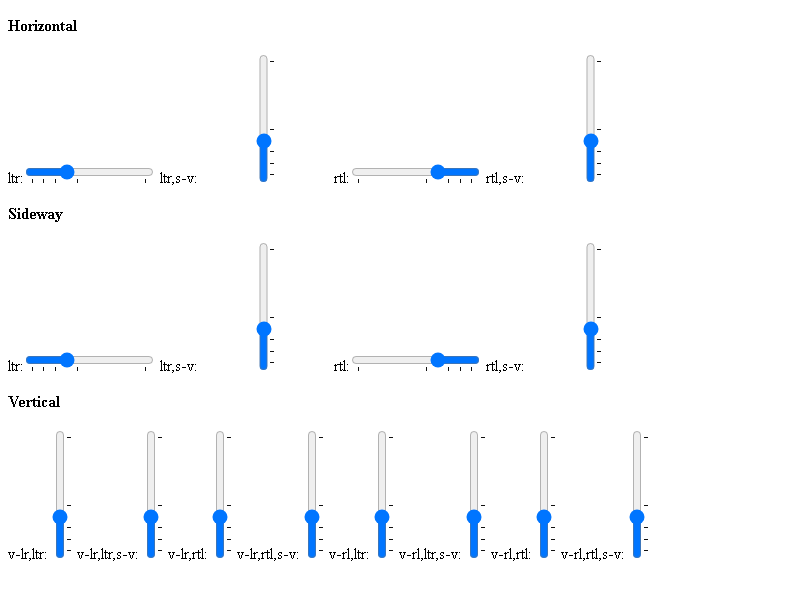
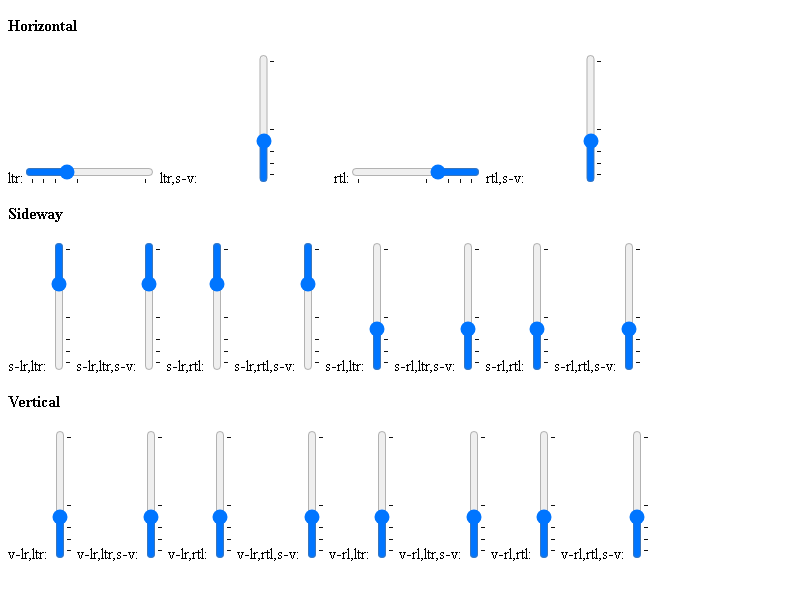
sideways: Fix slider rendering in sideways-lr
Bug: 40501131
Commit-Queue: Di Zhang <dizhangg@chromium.org>
Auto-Submit: Kent Tamura <tkent@chromium.org>
Cr-Commit-Position: refs/heads/main@{#1326520}
NOKEYCHECK=True
GitOrigin-RevId: 8a8dd1b964177259f3bd3c59bd76ad8271253e3e

diff --git a/blink/web_tests/css-parser/vertical-range-slider-appearance.html b/blink/web_tests/css-parser/vertical-range-slider-appearance.html
@@ -11,6 +11,7 @@ p {
 .s-v { appearance: slider-vertical }
 .htb { writing-mode: horizontal-tb }
 .side { writing-mode: sideways-lr }
+.srl { writing-mode: sideways-rl }
 .vlr { writing-mode: vertical-lr }
 .vrl { writing-mode: vertical-rl }
 
@@ -21,10 +22,14 @@ ltr,s-v:<input type="range" value="30" min="0" max="100" class="ltr s-v htb" lis
 rtl:<input type="range" value="30" min="0" max="100" class="rtl htb" list=foo>
 rtl,s-v:<input type="range" value="30" min="0" max="100" class="rtl s-v htb" list=foo>
 <p>Sideway</p>
-ltr:<input type="range" value="30" min="0" max="100" class="ltr side" list=foo>
-ltr,s-v:<input type="range" value="30" min="0" max="100" class="ltr s-v side" list=foo>
-rtl:<input type="range" value="30" min="0" max="100" class="rtl side" list=foo>
-rtl,s-v:<input type="range" value="30" min="0" max="100" class="rtl s-v side" list=foo>
+s-lr,ltr:<input type="range" value="30" min="0" max="100" class="ltr side" list=foo>
+s-lr,ltr,s-v:<input type="range" value="30" min="0" max="100" class="ltr s-v side" list=foo>
+s-lr,rtl:<input type="range" value="30" min="0" max="100" class="rtl side" list=foo>
+s-lr,rtl,s-v:<input type="range" value="30" min="0" max="100" class="rtl s-v side" list=foo>
+s-rl,ltr:<input type="range" value="30" min="0" max="100" class="ltr srl" list=foo>
+s-rl,ltr,s-v:<input type="range" value="30" min="0" max="100" class="ltr s-v srl" list=foo>
+s-rl,rtl:<input type="range" value="30" min="0" max="100" class="rtl srl" list=foo>
+s-rl,rtl,s-v:<input type="range" value="30" min="0" max="100" class="rtl s-v srl" list=foo>
 <p>Vertical</p>
 v-lr,ltr:<input type="range" value="30" min="0" max="100" class="ltr vlr" list=foo>
 v-lr,ltr,s-v:<input type="range" value="30" min="0" max="100" class="ltr s-v vlr" list=foo>

diff --git a/blink/renderer/core/paint/theme_painter_default.cc b/blink/renderer/core/paint/theme_painter_default.cc
@@ -559,8 +559,8 @@ bool ThemePainterDefault::PaintSliderTrack(const Element& element,
       RuntimeEnabledFeatures::
           NonStandardAppearanceValueSliderVerticalEnabled() &&
       style.EffectiveAppearance() == kSliderVerticalPart;
-  bool is_writing_mode_vertical =
-      !IsHorizontalWritingMode(style.GetWritingMode());
+  const WritingMode writing_mode = style.GetWritingMode();
+  bool is_writing_mode_vertical = !IsHorizontalWritingMode(writing_mode);
   slider.vertical = is_writing_mode_vertical || is_slider_vertical;
   slider.in_drag = false;
 
@@ -574,13 +574,15 @@ bool ThemePainterDefault::PaintSliderTrack(const Element& element,
   // behave like it has direction rtl and its value should be rendered
   // bottom-to-top.
   slider.right_to_left =
-      (IsHorizontalWritingMode(style.GetWritingMode()) &&
-       !is_slider_vertical) ||
+      (IsHorizontalWritingMode(writing_mode) && !is_slider_vertical) ||
               (RuntimeEnabledFeatures::
                    FormControlsVerticalWritingModeDirectionSupportEnabled() &&
                is_writing_mode_vertical)
           ? !style.IsLeftToRightDirection()
           : true;
+  if (writing_mode == WritingMode::kSidewaysLr) {
+    slider.right_to_left = !slider.right_to_left;
+  }
   if (auto* input = DynamicTo<HTMLInputElement>(element)) {
     Element* thumb_element = input->UserAgentShadowRoot()
                                  ? input->UserAgentShadowRoot()->getElementById(
